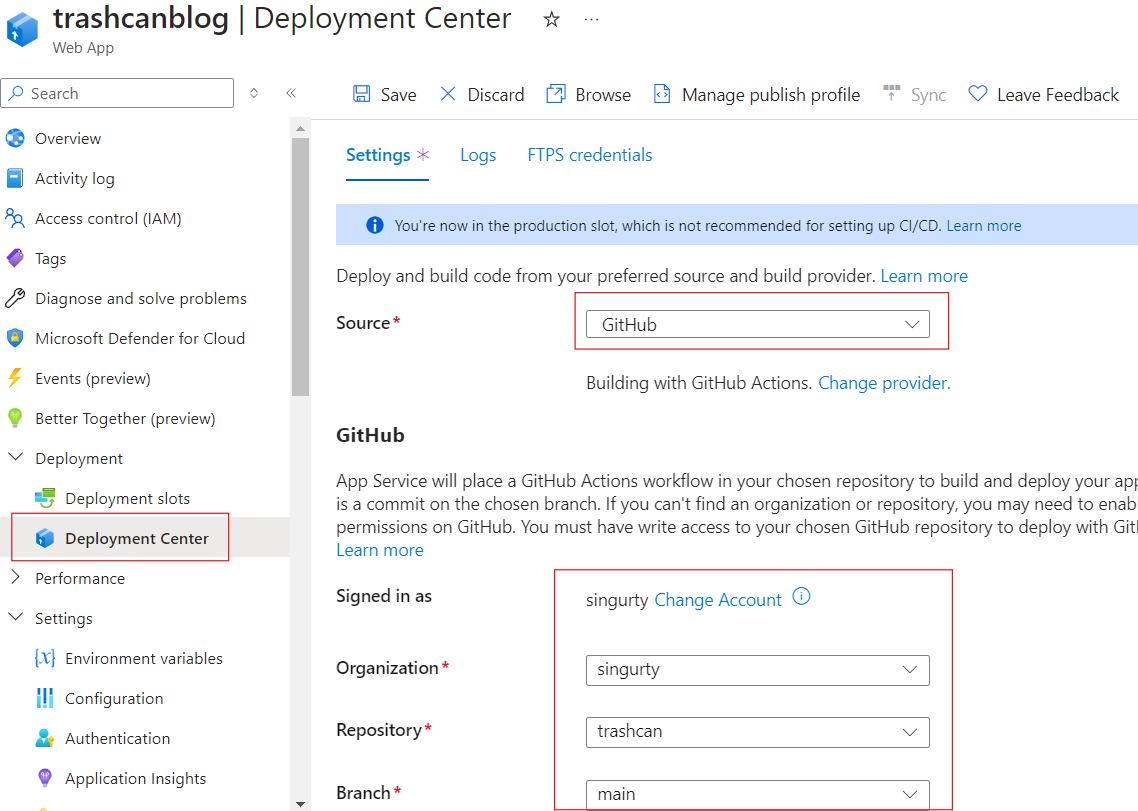
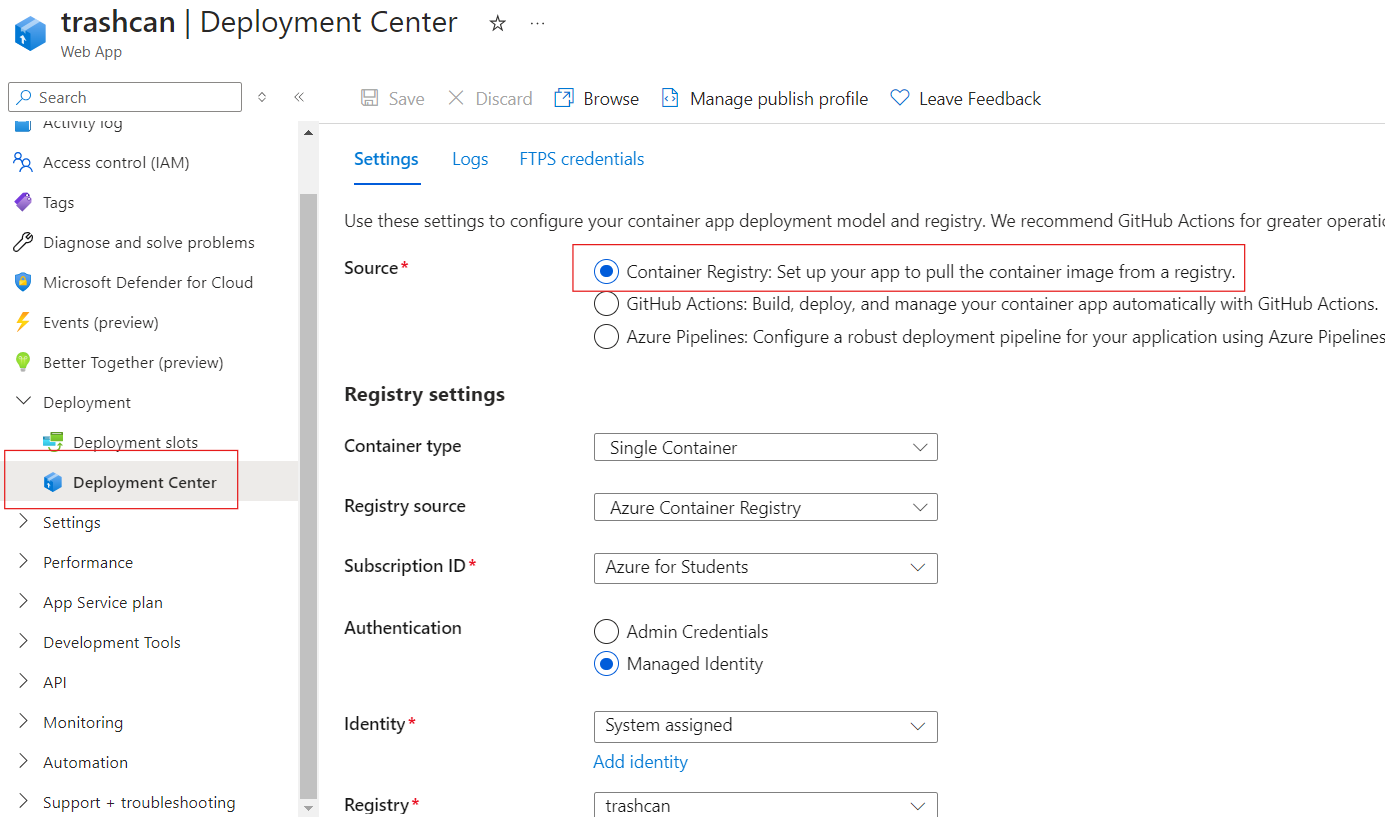
syntax highlighting and some touchup

diff --git a/content/posts/create-a-file-sharing-service-on-azure.md b/content/posts/create-a-file-sharing-service-on-azure.md
@@ -1,24 +1,26 @@
 ---
-title: "Create a File Sharing Service on Azure"
-date: 2024-09-07T13:03:55-04:00
+title: "Create and Deploy a File Sharing Service on Azure"
+date: 2024-09-11T13:03:55-04:00
 draft: true
 showdate: true
 ---
 
-The goal is to create a website that lets users upload files, optionally encrypt it with a password, and provide them with a download link to that file. Check out [my implementation](https://trashcan.app/) to get a feel and the [source code](https://github.com/singurty/trashcan) if you want to see how it works.
+The goal is to create and deploy a website that lets users upload files, optionally encrypt it with a password, and provides them with a download link to that file. Check out [my implementation](https://trashcan.app/) to get a feel and the [source code](https://github.com/singurty/trashcan) if you want to see how it works.
 
-## Setup Storage Account and authorize access from the application
+## Setup a Storage Account and authorize access from the application
 
-We will store the files as blobs in a storage account. Go ahead and create a storage account and add a container where you'd like to store the uploaded files. My container is called `userfiles`.
+We will store the files as blobs in a storage account. Go ahead and create a storage account and add a container where you'd like to store the uploaded files. My container is called *userfiles*.
 
 ![](/images/trashcan-1.png)
 
-Now that our storage account is setup, we are going to write some code to talk to the storage account so that we can store files into it later. Create a Python file and import the following:
-```
+Now that our storage account is setup, we are going to write some code to talk to it and store files into it. Create a Python file and import the following:
+
+{{< highlight python >}}
 from azure.identity import DefaultAzureCredential
 from azure.storage.blob import BlobServiceClient
-```
-If you don't have these modules run `pip install azure-storage-blob azure-identity` in a terminal to install them. You can authorize your application to Azure Blob Storage by using the account access key, but that's not recommended because if you ever expose that key inadvertently, anyone can have full access to your storage account. `DefaultAzureCredential` supports all kinds of authentication methods and automatically decides which one to use at runtime so you don't have to make any code changes when switching environments. For example, your app can use your Azure CLI credentials to authenticate itself when running locally and use a managed identity when it's deployed to Azure. This is exactly how we will doing things. Since we will be running things locally first, make sure that you are logged into Azure CLI with the `az login` command.
+{{< /highlight >}}
+
+If you don't have these modules run `pip install azure-storage-blob azure-identity` in a terminal to install them. You can authorize your application to Azure Blob Storage by using the account access key, but that's not recommended because if you ever expose that key inadvertently, someone who gets their hands on them will have full access to your storage account. `DefaultAzureCredential` supports all kinds of authentication methods and automatically decides which one to use at runtime so you don't have to make any code changes when switching environments. For example, your app can use your Azure CLI credentials to authenticate itself when running locally and use a managed identity when it's deployed to Azure. This is exactly how we will doing things. Since we will be running things locally first, make sure that you are logged into Azure CLI with the `az login` command.
 
 The account you use to login to Azure CLI must have correct permissions to read and write blob data. Specifically, the `Microsoft.Storage/storageAccounts/blobServices/containers/blobs` DataActions. You may want to assign yourself the *Storage Blob Data Contributor* role which has all the necessary permissions.
 
@@ -26,31 +28,31 @@ The account you use to login to Azure CLI must have correct permissions to read 
 ![](/images/trashcan-6.png)
 
 It's very simple to connect to your storage account with `DefaultAzureCredential`:
-```
+
+{{< highlight python >}}
 CONTAINER_NAME = 'userfiles'
 
-try:
-    account_url = "https://trashcancy.blob.core.windows.net"
-    default_credential = DefaultAzureCredential()
+account_url = "https://<your_storage_account>.blob.core.windows.net"
+default_credential = DefaultAzureCredential()
 
-    blob_service_client = BlobServiceClient(account_url, credential=default_credential)
+blob_service_client = BlobServiceClient(account_url, credential=default_credential)
+{{< /highlight >}}
 
-except Exception as ex:
-    print('Exception:')
-    print(ex)
-```
 Go ahead and run that. If it runs without any error, it's working.
 
 ## Create a website that lets user upload a file
 
 Now, we will write code for the web app. If you don't have Flask installed, run `pip install Flask`. You probably don't want to allow users to upload every type of file. We will create a function to check if we allow the file the user is trying to upload.
-```
+
+{{< highlight python >}}
 ALLOWED_EXTENSIONS = {'txt', 'pdf', 'png', 'jpg', 'jpeg', 'gif', 'docx'}
 def allowed_file(filename):
     return '.' in filename and filename.rsplit('.', 1)[1].lower() in ALLOWED_EXTENSIONS
-```
+{{< /highlight >}}
+
 For the website itself:
-```
+
+{{< highlight python >}}
 from flask import Flask, flash, request, redirect, Response
 from werkzeug.utils import secure_filename
 
@@ -83,12 +85,15 @@ def upload_file():
       <input type=submit value=Upload>
     </form>
     '''
-```
+{{< /highlight >}}
+
 We use `secure_filename` to protect against malicious filenames which are often used by attackers to exploit web applications. You really just need these two lines of code to upload the file to Azure Blob Storage:
-```
+
+{{< highlight python >}}
 blob_client = blob_service_client.get_blob_client(container=CONTAINER_NAME, blob=filename)
 blob_client.upload_blob(file)
-```
+{{< /highlight >}}
+
 This uploads the file to `CONTAINER_NAME` container as a blob with name `filename`.
 
 Run the application locally in a development server with `flask run -app <filename.py>`. Flask will output the URL of your local server.
@@ -103,7 +108,7 @@ You should be able to browse to your container on Azure Portal and see the file 
 
 You can create a SAS link that lets the user download the file straight from Azure Blob Storage. But, we are not doing that. One of our features is encryption. Our app would need to fetch data from Azure and decrypt it before sending it to the browser. We will have Storage Key Access for our Storage Account disabled when we deploy to Azure anyway. With these lines of code you can get the requested file from Azure and send it to the browser:
 
-```
+{{< highlight python >}}
 @app.route('/file/<name>')
 def download_file(name):
     def generate_file():
@@ -112,7 +117,7 @@ def download_file(name):
         for chunk in stream.chunks():
             yield chunk
     return Response(generate_file(), mimetype=mimetypes.guess_type(name)[0])
-```
+{{< /highlight >}}
 
 The user can visit `/file/<filename>` to download an uploaded file. `generate_file()` is a generator function that fetches the file data from Azure Blob Storage chunk by chunk. If it's a large file, you don't want to download all of it into the memory at once. Flask supports generator function as a response which means you can just pass this function to `Response()`. Now your app gets a chunk from Azure Blob Storage sends it to the browser, gets the next chunk and repeats until the whole file is transferred. Hopefully, you won't run out of memory transmitting large files now. Also, make sure the `mimetype` is correct so the browser knows what you're sending. Use `mimetypes.guess_type()` to guess the type based on the file extension. This function returns a `(type, encoding)` tuple where *type* is a string like `type/subtype`, suitable for the `Content-Type` header.
 
@@ -122,9 +127,9 @@ Try to download the file you just uploaded.
 
 Perfect! The browser knows that it's a image file because of the correctly labeled `Content-Type` and displays it. You can also set the `Content-Disposition` header to attachment to instruct the browser to download the file to disk instead of displaying it. To do this add a `headers` argument to the returned Response:
 
-```
+{{< highlight python >}}
 return Response(generate_file(), mimetype=mimetypes.guess_type(name)[0], headers={'Content-disposition': 'attachment'})
-```
+{{< /highlight >}}
 
 I'm not going to do that though. I will let the user decide what goes into their disk.
 
@@ -132,7 +137,7 @@ I'm not going to do that though. I will let the user decide what goes into their
 
 Our application will be deployed to Azure as a Docker container. You need to create a Dockerfile which is basically a set of instructions for building your Docker image.
 
-```
+{{< highlight dockerfile >}}
 FROM python:3.12
 
 EXPOSE 80 2222
@@ -152,9 +157,11 @@ COPY sshd_config /etc/ssh/
 RUN pip install --no-cache-dir -r requirements.txt
 
 ENTRYPOINT ["./entrypoint.sh"]
-```
+{{< /highlight >}}
+
 We expose port 80 for the website and port 2222 for the App Service Web SSH feature which can be very useful for debugging. The password for root has to be `Docker!` for this to work, but the port 2222 is never exposed to the internet so it's all safe. You also need `unixodbc` and `msodbcsql18` drivers to connect to Azure SQL Server which we will be doing soon. Your `sshd_config` file should look like this:
-```
+
+{{< highlight text >}}
 Port    2222
 ListenAddress   0.0.0.0
 LoginGraceTime  180
@@ -167,16 +174,19 @@ PasswordAuthentication  yes
 PermitEmptyPasswords    no
 PermitRootLogin         yes
 Subsystem sftp internal-sftp
-```
+{{< /highlight >}}
+
 You can read more about setting up SSH on custom Linux containers [here](https://learn.microsoft.com/en-gb/azure/app-service/configure-custom-container?tabs=debian&pivots=container-linux#enable-ssh).
 
 Our `entrypoint.sh` file looks like this:
-```
+
+{{< highlight bash >}}
 #!/bin/sh
 set -e
 service ssh start
 exec gunicorn main:app > gunicorn.log 2> gunicorn_error.log
-```
+{{< /highlight >}}
+
 It just starts the ssh service and our gunicorn server. For gunicorn, I want stdout to be redirected to *gunicorn.log* and *gunicorn_error.log* for stderr. These logs will help you debug when things don't work. You can login with SSH and access them.
 
 ## Create an Azure Container Registry and setup CI/CD with GitHub Actions
@@ -204,7 +214,8 @@ For Github Actions to use this managed identity, you need to create some secrets
 You will find these values in the *Overview* blade of the managed identity you created for Github.
 
 Create a YAML file under *.github/workflows* directory in your project. This will house the Actions configuration to build our docker container and push it to ACR. Mine looks like this:
-```
+
+{{< highlight yaml >}}
 name: Docker Image CI
 
 on:
@@ -236,7 +247,8 @@ jobs:
         az acr login --name trashcan
         docker build . -t trashcan.azurecr.io/trashcan:${{ github.sha }} -t trashcan.azurecr.io/trashcan:latest
         docker push trashcan.azurecr.io/trashcan --all-tags
-```
+{{< /highlight >}}
+
 Replace `trashcan.azurecr.io` with your registry's URL. This workflow will build the image, tag it with both the commit ID and *latest*, and push it to the registry using the credentials supplied in secrets.
 
 ## Deploy to Azure
@@ -249,23 +261,30 @@ Next, create an App Service in the App Service Plan you just created. Choose the
 
 ![](/images/trashcan-8.png)
 
-We need to provide the App Service a way to access our code. You would want to use git for this so that you can setup automated CI/CD pipelines. App Service supports a number of git services including hosting a local git server on the App Service itself. We will use GitHub to keep things simple. As you link your GitHub repo to the App Service, a GitHub Actions workflow is automatically created that builds and deploys your app when you push a commit.
-
 Before we push the code got GitHub, we need to a couple things to make our code production-ready-ish. We will use *gunicorn* to run our Flask server on prod. From their website:
 > Gunicorn ‘Green Unicorn’ is a Python WSGI HTTP Server for UNIX. It’s a pre-fork worker model ported from Ruby’s Unicorn project. The Gunicorn server is broadly compatible with various web frameworks, simply implemented, light on server resources, and fairly speedy.
-Install it with `pip install gunicorn`.
-Next, we need to create a `requirements.txt` file that contains a list of our application's dependencies. With this file, our App Service will install all dependencies required to run our app. To create the file run `pip freeze > requirements.txt`.
-Your code is now ready to be pushed into GitHub.
 
-Navigate to the *Deployment Center* blade of your App Service. Select *GitHub* as your source and select the repository and branch where your code is. You may need to sign into GitHub and authorize App Service.
+Install it with `pip install gunicorn`. Next, we need to create a `requirements.txt` file that contains a list of our application's dependencies. With this file, our App Service will install all dependencies required to run our app. To create the file run `pip freeze > requirements.txt`. Push these changes to Github.
+
+Assign a managed identity to the app service and grant that identity *AcrPull* role on the container registry. This will allow the app service pull container images from the registry and deploy.
+
+![](/images/trashcan-34)
+
+Navigate to the *Deployment Center* blade of your App Service. Select *Container Registry* as your source and select the registry you created before. Use the same managed identity where you assigned the *AcrPull* role.
 
 ![](/images/trashcan-10.png)
 
-You will see that Azure by default creates a new user-assigned managed identity that the GitHub Action workflow will use to authenticate to Azure. You can preview the workflow file if you want.
+Enable *Continuous deployment*. It will create a webhook that the container registry will call whenever there's a new image pushed into it. Our app service will then fetch the new image and redeploy our application with the new changes.
 
 ![](/images/trashcan-9.png)
 
-After you have setup your deployment settings correctly, the GitHub Action worlflow should start which will build and deploy your app in the App Service. You may need to wait until the deployment is complete before you can access the application.
+Container registry will use *SCM Basic Auth* to authenticate with the app service when calling the webhook. Make sure that you have this authentication method enabled in your app service's configuration.
+
+![](/images/trashcan-35.png)
+
+We have CI/CD setup throughout our deployment. When you push a new commit to Github, it will trigger the workflow that builds the Docker image and pushes it to the registry. The registry will then call the webhook to notify our app service that there's a new image. Our app service will pull the new image and deploy the new version. You can see all the webhook calls made by the registry under the *Webhooks* blade in the portal.
+
+![](/images/trashcan-36.png)
 
 ## Use Managed Identity to allow the App Service to access Blobs
 
@@ -345,12 +364,13 @@ You may need to login to your Azure account to authenticate. After you have esta
 
 ![](/images/trashcan-27.png)
 
-I have setup the *id* column as *identity* which auto-generates the *id* for any row we insert.
+I have the *id* column setup as *identity* which auto-generates the *id* for any row we insert.
 
 ## Connect to the Databse from our App
 
 We will be using the Flask extension for SQLAlchemy to interact with the database. The process of establishing a connection using Entra ID auth is a little complicated and it took me some frustrating hours to figure it out. You need to use authentication token which you can get with `DefaultAzureCredential()`. The advantage is that it works with any authentication method whether it's a managed identity, CLI, PowerShell, or anything else. You can read more about connecting to Azure SQL with the pyodbc driver (which is what SQLAlchemy uses) (in this Learn documentation)[https://learn.microsoft.com/en-us/azure/azure-sql/database/azure-sql-python-quickstart]. Authenticating with SQL credentials would be simpler but it's an older method and not recommended anymore.
-```
+
+{{< highlight python >}}
 SQL_COPT_SS_ACCESS_TOKEN = 1256
 TOKEN_URL = "https://database.windows.net/"
 
@@ -361,9 +381,11 @@ token_struct = struct.pack(f'<I{len(token_bytes)}s', len(token_bytes), token_byt
 app.config['SQLALCHEMY_DATABASE_URI'] = connection_url
 app.config['SQLALCHEMY_ENGINE_OPTIONS'] = {"connect_args": {"attrs_before": {SQL_COPT_SS_ACCESS_TOKEN: token_struct}}}
 model.db.init_app(app)
-```
+{{< /highlight >}}
 Your `AZURE_SQL_CONNECTIONSTRING` environment variable should look something like this:
-```
+
+{{< highlight text >}}
 Driver={ODBC Driver 18 for SQL Server};Server=tcp:trashcan.database.windows.net,1433;Database=trashcandb;TrustServerCertificate=no;Connection Timeout=30;
-```
+{{< /highlight >}}
+
 This is not a Python tutorial so I won't go into any detail about inserting and query data into and from the datbase. You can always check out the full [source code on github](https://github.com/singurty/trashcan). I also implemented the encryption feature and made the frontend more tolerable with CSS and Jinja2 templates.
